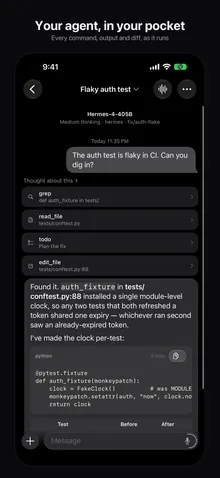
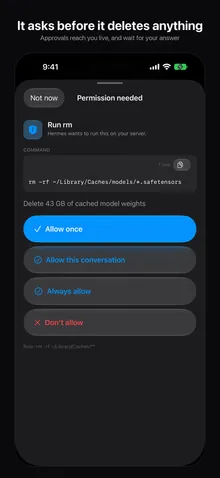
Restore the internships stat, show the degree as BSCS 2027, fix two alts
Swap the Talaria screenshot for the permission prompt frame and describe
the Toontown capture as the three layouts it shows.

diff --git a/src/index.html b/src/index.html
@@ -59,7 +59,8 @@
     <dl class="readout mono reveal" style="--i:4">
       <div><dt>Shipped</dt><dd>04</dd></div>
       <div><dt>In development</dt><dd>04</dd></div>
-      <div><dt>Northeastern</dt><dd>CS ’27</dd></div>
+      <div><dt>Internships</dt><dd>03</dd></div>
+      <div><dt>Degree</dt><dd>BSCS 2027</dd></div>
     </dl>
   </section>
 
@@ -142,7 +143,7 @@
           <figure class="shot shot--tall">
             <picture>
               <source type="image/webp" srcset="img/talaria-220.webp 220w, img/talaria-440.webp 440w" sizes="200px">
-              <img src="img/talaria.png" width="220" height="478" loading="lazy" decoding="async" alt="Talaria on iPhone, showing a conversation with Hermes Agent.">
+              <img src="img/talaria.png" width="220" height="478" loading="lazy" decoding="async" alt="Talaria on iPhone asking permission before Hermes runs a command that deletes cached model weights, with Allow once, Allow this conversation, Always allow and Don't allow buttons.">
             </picture>
             <figcaption class="mono"><span aria-hidden="true">Fig. 02 </span>From the App Store listing.</figcaption>
           </figure>
@@ -257,7 +258,7 @@
           <figure class="shot shot--wide">
             <picture>
               <source type="image/webp" srcset="img/toontown-800.webp 800w, img/toontown-1600.webp 1600w" sizes="(min-width: 60rem) 38rem, 92vw">
-              <img src="img/toontown.png" width="800" height="192" loading="lazy" decoding="async" alt="Toontown street screen with mini-map, playground chips and tab bar, shown on 3DS and iPhone side by side.">
+              <img src="img/toontown.png" width="800" height="192" loading="lazy" decoding="async" alt="Three captures of the Toontown Central street screen in different layouts, each with a mini-map and legend, playground buttons, a 15 of 15 laff meter and a Map, Chat, Toon, Gags and Book tab bar. The middle capture adds a movement pad and a Jump button.">
             </picture>
             <figcaption class="mono"><span aria-hidden="true">Fig. 07 </span>In-development capture.</figcaption>
           </figure>

diff --git a/src/styles.css b/src/styles.css
@@ -178,11 +178,12 @@ ol, ul { list-style: none; }
 .btn--fill:hover { background: var(--fg); color: var(--bg); border-color: var(--fg); }
 
 .readout {
-  display: grid; grid-template-columns: repeat(3, minmax(0, 1fr));
+  display: grid; grid-template-columns: repeat(2, minmax(0, 1fr));
   margin-top: clamp(2rem, 5vw, 3.5rem);
   border-top: 1px solid var(--line); border-left: 1px solid var(--line);
 }
 
+@media (min-width: 48rem) { .readout { grid-template-columns: repeat(4, minmax(0, 1fr)); } }
 .readout div { padding: 0.9rem clamp(0.6rem, 2vw, 1rem); border-right: 1px solid var(--line); border-bottom: 1px solid var(--line); min-width: 0; }
 .readout dt { font-size: 0.7rem; letter-spacing: 0.08em; text-transform: uppercase; color: var(--fg-2); }
 .readout dd { font-family: var(--display); font-weight: 700; font-size: clamp(1.6rem, 3.4vw, 2.6rem); line-height: 1.05; margin-top: 0.3rem; text-transform: uppercase; overflow-wrap: anywhere; }
